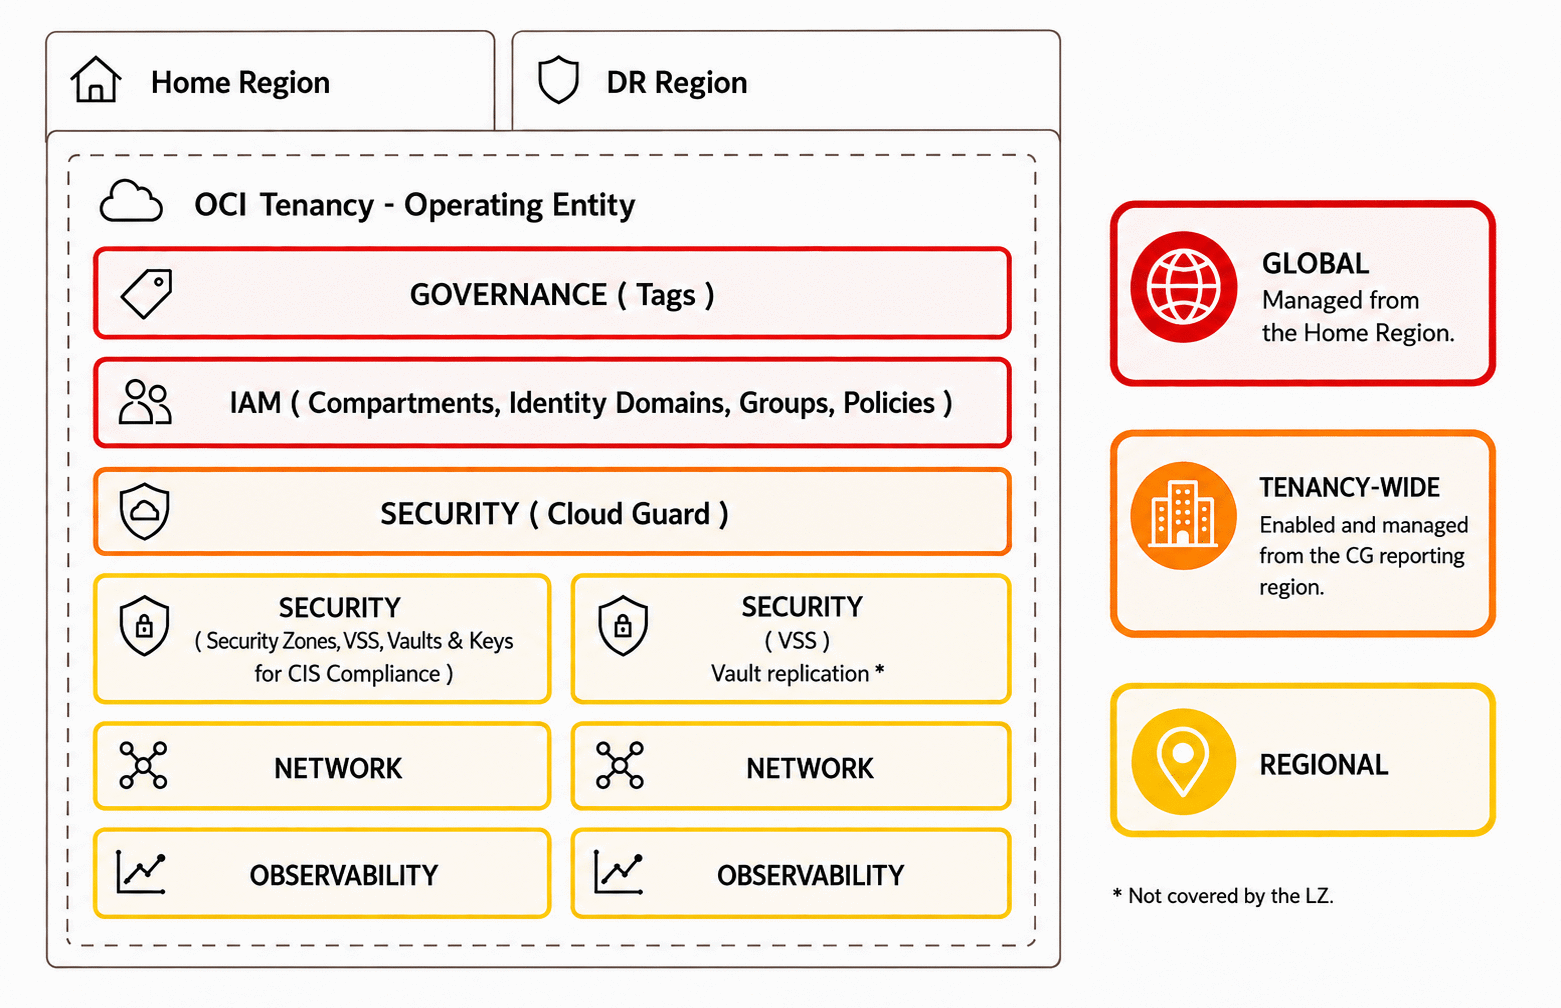
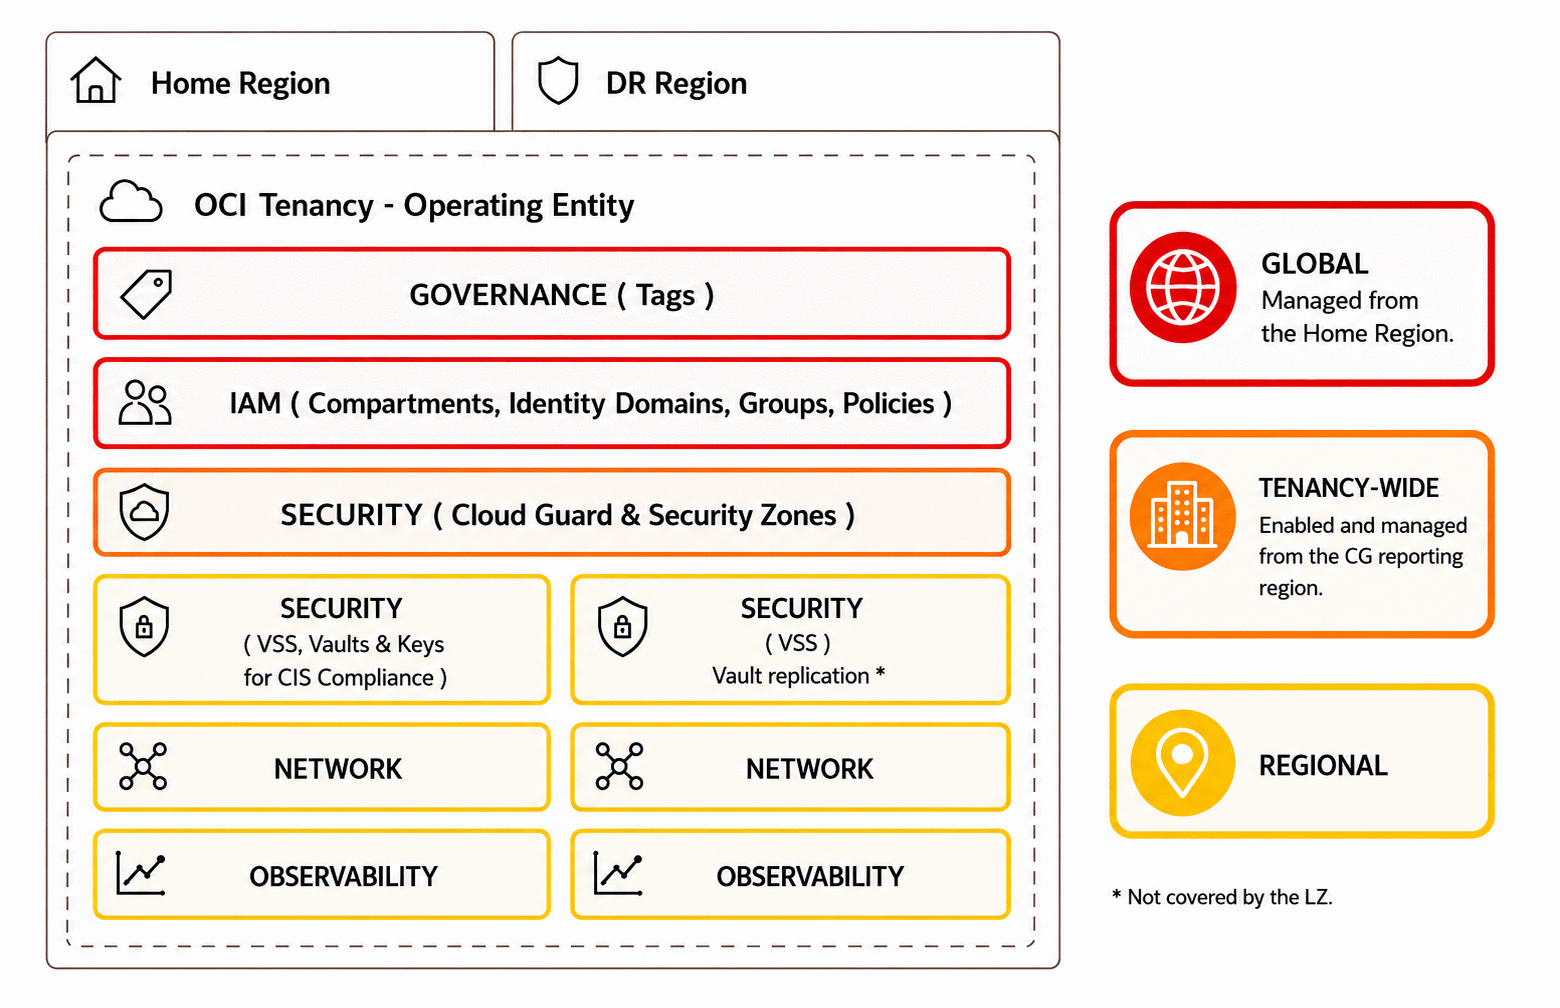
update images

diff --git a/tests/test_oneoe_dr_observability.py b/tests/test_oneoe_dr_observability.py
@@ -109,9 +109,12 @@ class OneOeDrObservabilityTests(unittest.TestCase):
             "separate from the Service Connector bucket replication",
             "for Hub E, after its initial network configuration is applied",
             'alt="Generic two-region One-OE disaster recovery architecture',
-            "*Figure 1: Generic two-region One-OE disaster recovery architecture.*",
-            "*Figure 2: Home-region One-OE stack in Frankfurt.",
-            "*Figure 3: DR-region BCDR stack in Amsterdam.",
+            '<p align="center"><em>Figure 1</em></p>',
+            "**Figure 1: Generic two-region One-OE disaster recovery architecture**",
+            '<p align="center"><em>Figure 2</em></p>',
+            "**Figure 2: Home-region One-OE stack in Frankfurt**",
+            '<p align="center"><em>Figure 3</em></p>',
+            "**Figure 3: DR-region BCDR stack in Amsterdam**",
             "orm_deployment_dr_region.png",
             'alt="OCI Resource Manager BCDR stack in Amsterdam',
             "Clear the Run apply check box",

diff --git a/addons/oci-lz-dr/README.md b/addons/oci-lz-dr/README.md
@@ -25,14 +25,22 @@ The **OCI LZ BCDR** addon provides the core landing zone resources required to s
   
 <img src="images/layers.png" width="900" alt="BCDR architecture showing IAM and governance managed from the home region, tenancy-wide Cloud Guard, and regional security, network, and observability resources in the home and DR regions. Vault replication is not covered by the landing zone.">
 
-*Figure 1. BCDR resource scope: IAM and governance are reused from the home region, Cloud Guard is tenancy-wide, and network and observability are deployed per region. Vault replication is outside the landing zone scope.*
+<p align="center"><em>Figure 1</em></p>
+
+**Figure 1: BCDR resource scope**
+
+IAM and governance are reused from the home region, Cloud Guard is tenancy-wide, and network and observability are deployed per region. Vault replication is outside the landing zone scope.
 
 - For **operations**, the platform must be resilient enough to support provisioning and day-to-day operation of the solution, including CI/CD, monitoring, and third-party integrations. Multi-region deployment state should be managed separately per region, for example with distinct OCI Resource Manager stacks or Terraform workspaces, so each regional deployment can be planned, applied, and operated independently.
 
 
 <img src="images/optionsDR.png" width="900" alt="Four DR deployment variants: a shared or dedicated DR compartment, each deployed across separate Availability Domains or a dedicated secondary region.">
 
-*Figure 2. DR deployment options across Availability Domains or regions. The DR workload can reuse the production compartment or run in a dedicated DR compartment; each option can use a separate Availability Domain or a dedicated region. The selected model has different resource provisioning and maintenance requirements. A dedicated DR compartment is useful when a separate team manages DR resources.*
+<p align="center"><em>Figure 2</em></p>
+
+**Figure 2: DR deployment options across Availability Domains or regions**
+
+The DR workload can reuse the production compartment or run in a dedicated DR compartment; each option can use a separate Availability Domain or a dedicated region. The selected model has different resource provisioning and maintenance requirements. A dedicated DR compartment is useful when a separate team manages DR resources.
 
 To review best practices about BCDR, go [here](BCDR-best-practices.md).
 

diff --git a/addons/oci-lz-dr/one-oe/README.md b/addons/oci-lz-dr/one-oe/README.md
@@ -27,7 +27,11 @@ The One-OE BC/DR design extends an existing One-OE baseline into a DR region whi
 
 <img src="../images/one-oe-multi-region.png" width="900" alt="Generic two-region One-OE disaster recovery architecture with shared management groups, regional hub and production networks, and data replication to the DR region">
 
-*Figure 1: Generic two-region One-OE disaster recovery architecture.*
+<p align="center"><em>Figure 1</em></p>
+
+**Figure 1: Generic two-region One-OE disaster recovery architecture**
+
+The architecture shows shared management groups, regional hub and production networks, and data replication to the DR region.
 
 &nbsp;
 
@@ -51,7 +55,11 @@ This is a multi-stack deployment. Step 0 deploys the One-OE baseline stack in th
 
 <img src="../images/orm_deployment_home_region.png" width="700" alt="OCI Resource Manager One-OE stack in Frankfurt saving output dependency files in an Object Storage bucket">
 
-*Figure 2: Home-region One-OE stack in Frankfurt. It saves output dependency files in Object Storage so they can be replicated for the BCDR stack.*
+<p align="center"><em>Figure 2</em></p>
+
+**Figure 2: Home-region One-OE stack in Frankfurt**
+
+It saves output dependency files in Object Storage so they can be replicated for the BCDR stack.
 
 **Step 1. Deploy the One-OE DR Extension**
 
@@ -78,7 +86,11 @@ For a different region pair or DR topology, use the [OCI LZ Blueprint Factory](.
 
 <img src="../images/orm_deployment_dr_region.png" width="700" alt="OCI Resource Manager BCDR stack in Amsterdam using an Object Storage bucket for replicated One-OE dependency files">
 
-*Figure 3: DR-region BCDR stack in Amsterdam. It reads the replicated One-OE output dependency files from Object Storage and does not save a new output file.*
+<p align="center"><em>Figure 3</em></p>
+
+**Figure 3: DR-region BCDR stack in Amsterdam**
+
+It reads the replicated One-OE output dependency files from Object Storage and does not save a new output file.
 
 When deploying with ORM, follow these steps:
 
